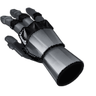
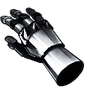
Curseurs : chrome plus brillant (contraste en S, reflets au blanc pur, netteté)
Claude-Session: https://claude.ai/code/session_0146Ahif6waR1P8s7ctFtwsu

Changed region(s): [[0.0, 0.0625, 0.8438, 0.8438], [0.8438, 0.6562, 0.875, 0.7188]]

diff --git a/src/styles/global.css b/src/styles/global.css
@@ -70,7 +70,7 @@ html.screens, html.screens body { height: 100%; overflow: hidden; overscroll-beh
 
 /* ---------- accessibilité ---------- */
 /* curseur : gantelet (fichier fourni), point chaud à la pointe ; le curseur système reste pour les champs de texte */
-/* curseurs : gantelet médiéval (THTH, domaine public), recoloré en acier argenté et fer noir ; 48 px, version 2× pour Retina */
+/* curseurs : gantelet médiéval (THTH, domaine public), recoloré en chrome (acier poli) et fer noir ; 48 px, version 2× pour Retina */
 html { cursor: url(/cur-default.png) 2 3, auto !important; cursor: -webkit-image-set(url(/cur-default.png) 1x, url(/cur-default-2x.png) 2x) 2 3, auto !important; cursor: image-set(url(/cur-default.png) 1x, url(/cur-default-2x.png) 2x) 2 3, auto !important; }
 a, button, [role='button'], label, summary, select, [data-go], [data-copy], .prog { cursor: url(/cur-pointer.png) 2 3, auto !important; cursor: -webkit-image-set(url(/cur-pointer.png) 1x, url(/cur-pointer-2x.png) 2x) 2 3, auto !important; cursor: image-set(url(/cur-pointer.png) 1x, url(/cur-pointer-2x.png) 2x) 2 3, auto !important; }
 .obj a, .stage { cursor: url(/cur-grab.png) 2 3, auto !important; cursor: -webkit-image-set(url(/cur-grab.png) 1x, url(/cur-grab-2x.png) 2x) 2 3, auto !important; cursor: image-set(url(/cur-grab.png) 1x, url(/cur-grab-2x.png) 2x) 2 3, auto !important; }
